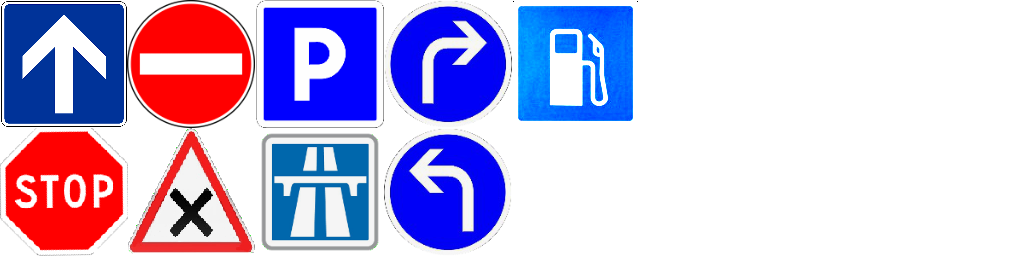
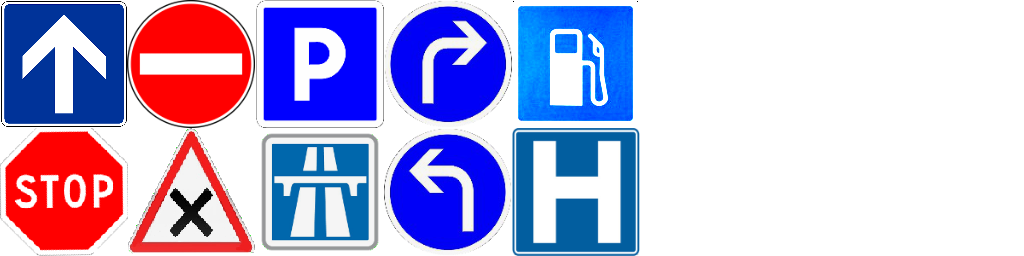
hospital panel

Changed region(s): [[0.5, 0.5, 0.625, 1.0]]

diff --git a/json_osm_chung/json_osmall_webglcarsimheight_shadow.html b/json_osm_chung/json_osmall_webglcarsimheight_shadow.html
@@ -284,6 +284,7 @@ vec4 encodefloatrgba( float v ) {//range 0.0 - 5000.0
 		vTextureCoord=aTextureCoord*0.5;
 		float dx=0.2499;
 		if(r>999.0){r-=1000.0;vTextureCoord.y=aTextureCoord.y;dx=0.99;}//bridgecolour
+		else if(r>699.0){r-=700.0;vTextureCoord.x+=0.5;}//hospital
 		else if(r>649.0){r-=650.0;vTextureCoord.x+=0.375;vTextureCoord.y+=0.5;}//turn right
 		else if(r>599.0){r-=600.0;vTextureCoord.x+=0.375;}//turn left
 		else if(r>499.0){r-=500.0;vTextureCoord.x+=0.25;vTextureCoord.y+=0.5;}//parking
@@ -8232,15 +8233,15 @@ var py=(py0)*2;
 return test;
 }
 var iroadnear=0,xroadnear=0,yroadnear=0,zroadnear=0,o1roadnear=0,iroadnear0=0,dxyiroadnear=0;
-function testroadnear(px0,py0,lat10,lng10,r){
+function testroadnear(px0,py0,lat10,lng10,r,dr){
 var l,dx,dy,dxx,dxy,dxyi,distxy=999999;
 var px=(px0)*2;
 var py=(py0)*2;
 iroadnear=0;iroadnear0=-1;
 var j=-1;
   for(var i=0;i<iroad;i++){
-    if(Math.abs(px-roadx[i])<roadl[i]+7){
-	 if(Math.abs(py-roady[i])<roadl[i]+7){
+    if(Math.abs(px-roadx[i])<roadl[i]+r){//+7
+	 if(Math.abs(py-roady[i])<roadl[i]+r && roadr[i]>=dr){//+7
 	   dx=px-roadx[i];
 	   dy=py-roady[i];
        dxx=dx*roadco1[i]+dy*roadsi1[i];
@@ -8862,7 +8863,7 @@ indextree=0;indextree2=0;
 indexline=0;indexlinetext=0;
 indexcross=0;
 tairport=0;airportx=999999;airportname="";distairport1=999999;distairport2=999999;
-ntrottoir=0;
+ntrottoir=0,nhospital=0;
 //resettree2();
 //resettree22();
 //if(Math.max(Math.abs(latx-lat0),Math.abs(lngx-lng0))>0.001){
@@ -9422,6 +9423,7 @@ if(way.nodes){
    //alert("drawways="+i);
    //loading=0;
    addstationtest();
+   addhospitaltest();
    addtreetest();
    addlinetest();
    addbartest();
@@ -10081,15 +10083,17 @@ if(crossttestroad[i]==0 || testroad2(xx/2,yy/2,latx0,lngx0,0.1)==0){
    co11=0.014*co1;
    si11=0.014*si1;
    h2=0.45;
+   var face=1;
    var test=0;if(crossttestroad[i]==1){test=testroadcross(xx/2,yy/2,latx0,lngx0,rr);}
    roadcross[crossiroad[i]]=test;
    if(test==1){
       r+=10;co1*=0.87;si1*=0.87;}//stop
+   else if(rr>700){r+=700;co1*=0.82;si1*=0.82;face=2;}//hospital
    else if(rr>650){r+=650;co1*=0.82;si1*=0.82;}//turn right
    else if(rr>600){r+=600;co1*=0.82;si1*=0.82;}//turn left
    else if(rr>500){r+=500;co1*=0.82;si1*=0.82;}//parking
    else if(rr>400){r+=400;co1*=1.05;si1*=1.05;h2=0.48;}//highway
-   else if(rr>300){r+=300;co1*=0.82;si1*=0.82;}//station
+   else if(rr>300){r+=300;co1*=0.82;si1*=0.82;face=2;}//station
    else if(rr>200){r+=200;co1*=0.82;si1*=0.82;}//oneway2
    else if(rr>100){r+=100;co1*=0.82;si1*=0.82;}//oneway
    var zz0=zz-0.5;
@@ -10109,8 +10113,10 @@ if(crossttestroad[i]==0 || testroad2(xx/2,yy/2,latx0,lngx0,0.1)==0){
               
 			  xx-si1,yy+co1,zz+h,r,
               xx+si1,yy-co1,zz+h2,r,
-			  xx+si1,yy-co1,zz+h,r,
-              
+			  xx+si1,yy-co1,zz+h,r
+            ]);
+    if(face==1){          
+     append(crossvertices,[
 			  xx-si1+si11+co11,yy+co1-co11+si11,zz+h+0.007,r,
               xx-si1+si11+co11,yy+co1-co11+si11,zz+h2-0.007,r,
 			  xx+si1-si11+co11,yy-co1+co11+si11,zz+h2-0.007,r,
@@ -10120,6 +10126,17 @@ if(crossttestroad[i]==0 || testroad2(xx/2,yy/2,latx0,lngx0,0.1)==0){
 			  xx+si1-si11+co11,yy-co1+co11+si11,zz+h+0.007,r
 			  
             ]);
+	}else{
+     append(crossvertices,[
+	          0,0,-99,0,
+			  0,0,-99,0,
+			  0,0,-99,0,
+			  
+	          0,0,-99,0,
+			  0,0,-99,0,
+			  0,0,-99,0			  
+            ]);
+	}
     indexcross=index;
 	}//}
 }}
@@ -10157,7 +10174,7 @@ function addstationtest(){
      stationz[i]=-999999;
 	 var px=(stationlon[i]-lngx0)*scale/klon;
 	 var py=(stationlat[i]-latx0)*scale;
-	 if(testroadnear(px,py,latx0,lngx0,2)==1){
+	 if(testroadnear(px,py,latx0,lngx0,7,0)==1){
 	    stationx[i]=xroadnear/2;
 		stationy[i]=yroadnear/2;
 		//stationlon[i]=xroadnear*klon/scale+lngx0;
@@ -10171,6 +10188,25 @@ function addstationtest(){
 		   var l=roadl[j];
 		   if(dxyiroadnear<0){addcross(xxx+(r+0.5)*(si1),yyy+(r+0.5)*(-co1),zzz+zsol0,r+300,co1,si1);}//station
 		   else{addcross(xxx+l*co1+(r+0.5)*(-si1),yyy+l*si1+(r+0.5)*(co1),zzz+zsol0,r+300,-co1,-si1);}
+		   }
+	 }
+  }
+}
+var nhospital=0,hospitallon=[],hospitallat=[];
+function addhospitaltest(){
+  for(var i=0;i<nhospital;i++){
+	 var px=(hospitallon[i]-lngx0)*scale/klon;
+	 var py=(hospitallat[i]-latx0)*scale;
+	 var test=testroadnear(px,py,latx0,lngx0,65,1.3);
+	 if(test==0){test=testroadnear(px,py,latx0,lngx0,65,1);}
+	 if(test==1){
+		var j=iroadnear0;
+		if(j>=0){
+		   iroadcross=iroadnear0;
+		   var xxx=roadx[j],yyy=roady[j],zzz=roadz[j],r=roadr[j],co1=roadco1[j],si1=roadsi1[j];
+		   var l=roadl[j];
+		   if(dxyiroadnear<0){addcross(xxx+(r+0.3)*(si1),yyy+(r+0.3)*(-co1),zzz+zsol0,r+700,co1,si1);}//hospital
+		   else{addcross(xxx+l*co1+(r+0.3)*(-si1),yyy+l*si1+(r+0.3)*(co1),zzz+zsol0,r+700,-co1,-si1);}
 		   }
 	 }
   }
@@ -10475,7 +10511,7 @@ function addtower(way){
    var xx=0,xxx=0,yy=0,yyy=0,r=1,dr=1;
    var dxx=0,dyy=0,zz=0,zzz=0;
    var s=0,t=0,tt=0;
-   var h=1,amenity="",hmin=0,h00=0;
+   var h=1,amenity="",building="",hmin=0,h00=0;
    if(way.tags){
     if(way.tags.height){h00=way.tags.height/6;
 	        }
@@ -10499,6 +10535,9 @@ function addtower(way){
     if(way.tags.amenity){
 	   amenity=way.tags.amenity;//amenity="fuel";//way.tags.amenity;
 	   }
+	if(way.tags.building){building=way.tags.building;
+	   if(building=="hospital"){amenity="hospital";}
+	   }   
    }
    var jmax=way.nodes.length;//-1;
    var larg=1,ilarg=way.nodes[parseInt(jmax*0.51)];
@@ -10560,6 +10599,22 @@ if(latmid>-89){trottoirlat[ntrottoir]=(latmid+latmid2)/2;
                trottoirlon[ntrottoir]=(lonmid+lonmid2)/2;
 			   trottoirr[ntrottoir]=(Math.abs(latmid-latmid2)+Math.abs(lonmid-lonmid2)/klon)/2;
 			   ntrottoir+=1;}
+if(latmid>-89 && (amenity=="hospital" || amenity=="clinic" || building=="hospital") && nhospital<40){
+                                      hospitallat[nhospital]=latmid;
+                                      hospitallon[nhospital]=lonmid;
+									  nhospital+=1;
+                                      hospitallat[nhospital]=latmid2;
+                                      hospitallon[nhospital]=lonmid2;
+									  nhospital+=1;
+                                      /*hospitallat[nhospital]=(latmid+latmid2)/2;
+                                      hospitallon[nhospital]=(lonmid+lonmid2)/2;
+									  nhospital+=1;*/
+                                      hospitallat[nhospital]=(latmid+latmid2)/2+(lonmid-lonmid2)/2;
+                                      hospitallon[nhospital]=(lonmid+lonmid2)/2-(latmid-latmid2)/2;
+									  nhospital+=1;
+                                      hospitallat[nhospital]=(latmid+latmid2)/2-(lonmid-lonmid2)/2;
+                                      hospitallon[nhospital]=(lonmid+lonmid2)/2+(latmid-latmid2)/2;
+									  nhospital+=1;}
 if(h0>3 || hmin>0.1){//tower
    //if(h0>8){tairport=1;}
    if(hmin>0.1){zmid+=0.5;h-=0.5;}
